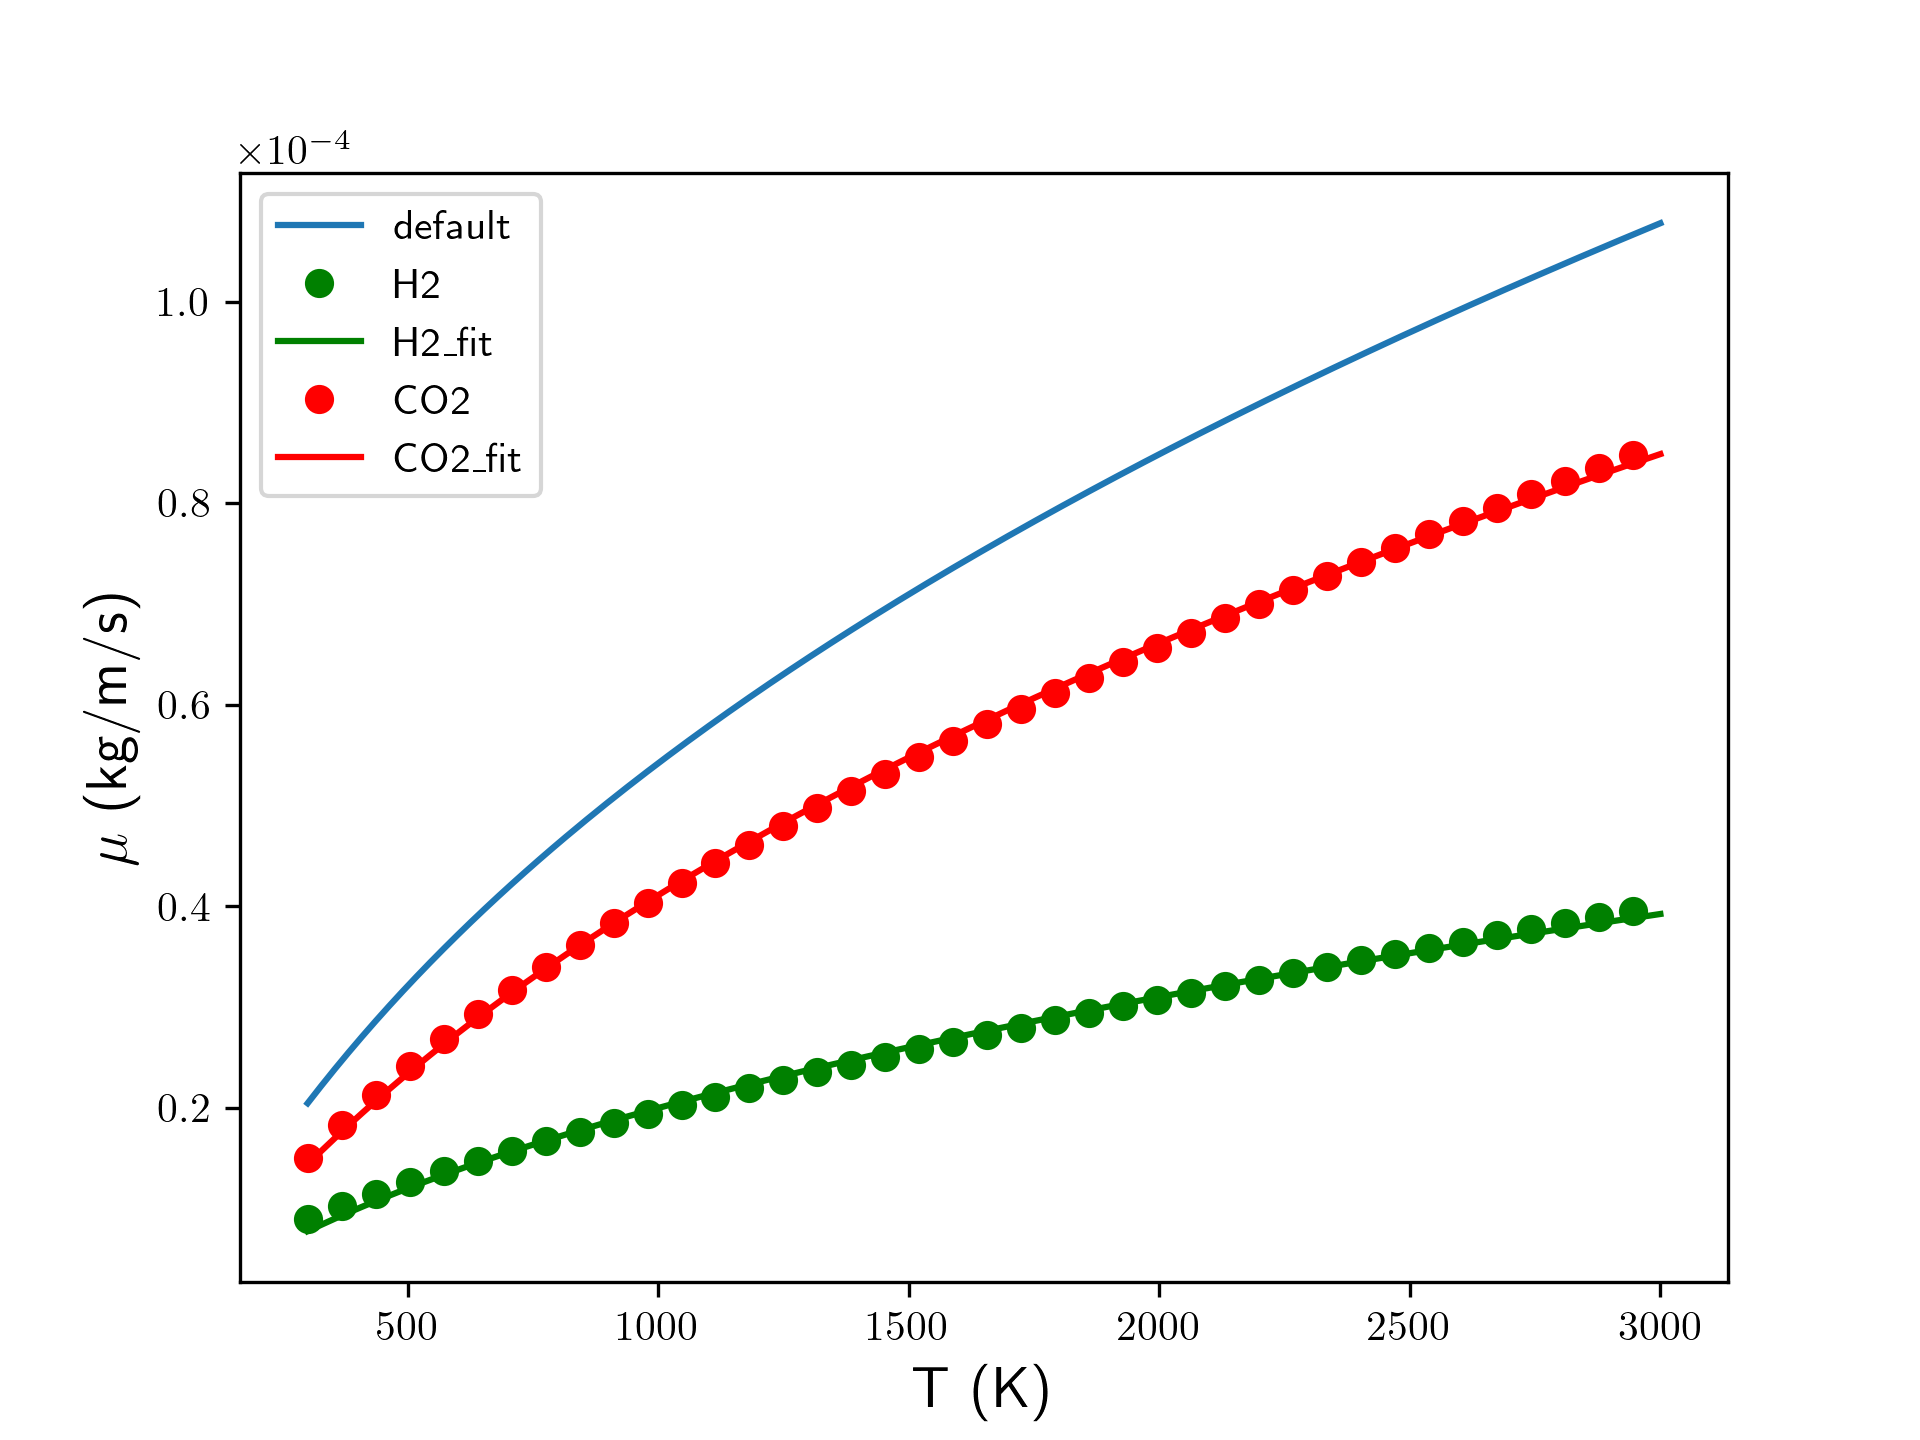
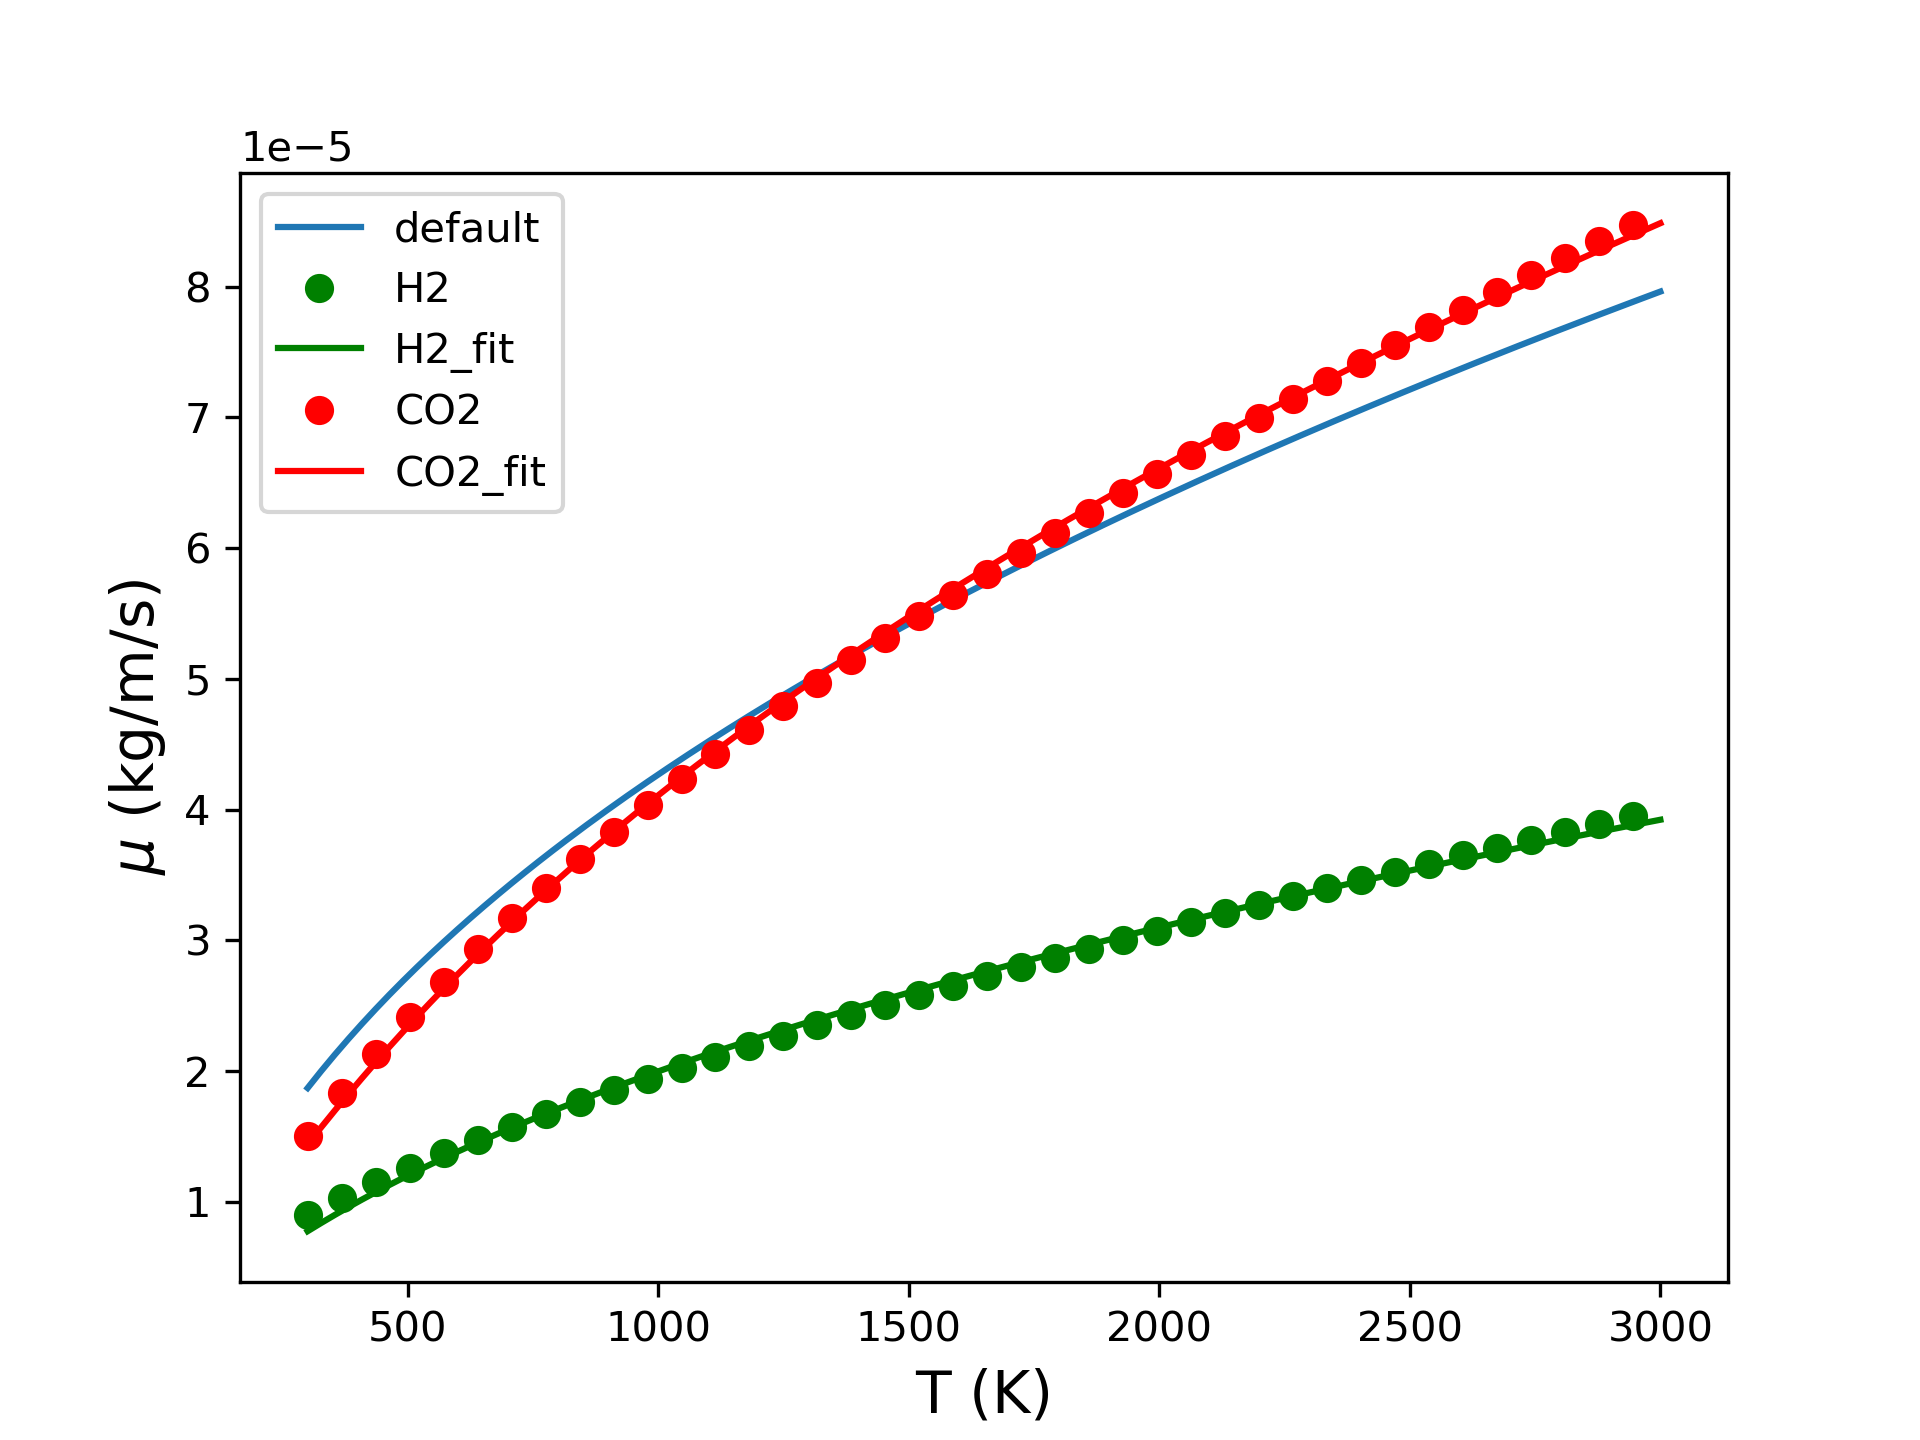
update the default value

diff --git a/test.py b/test.py
@@ -42,7 +42,6 @@ muValues_H2_fit = sutherland(Tvalues, AS, TS)
 
 # CO2
 muValues_CO2 = oftrans.getMuList4Species("CO2")
-muValues_default = sutherland(Tvalues, 2.125e-6, 240.)
 AS,TS = oftrans.sutherland_params["CO2"]
 muValues_CO2_fit = sutherland(Tvalues, AS, TS)
 
